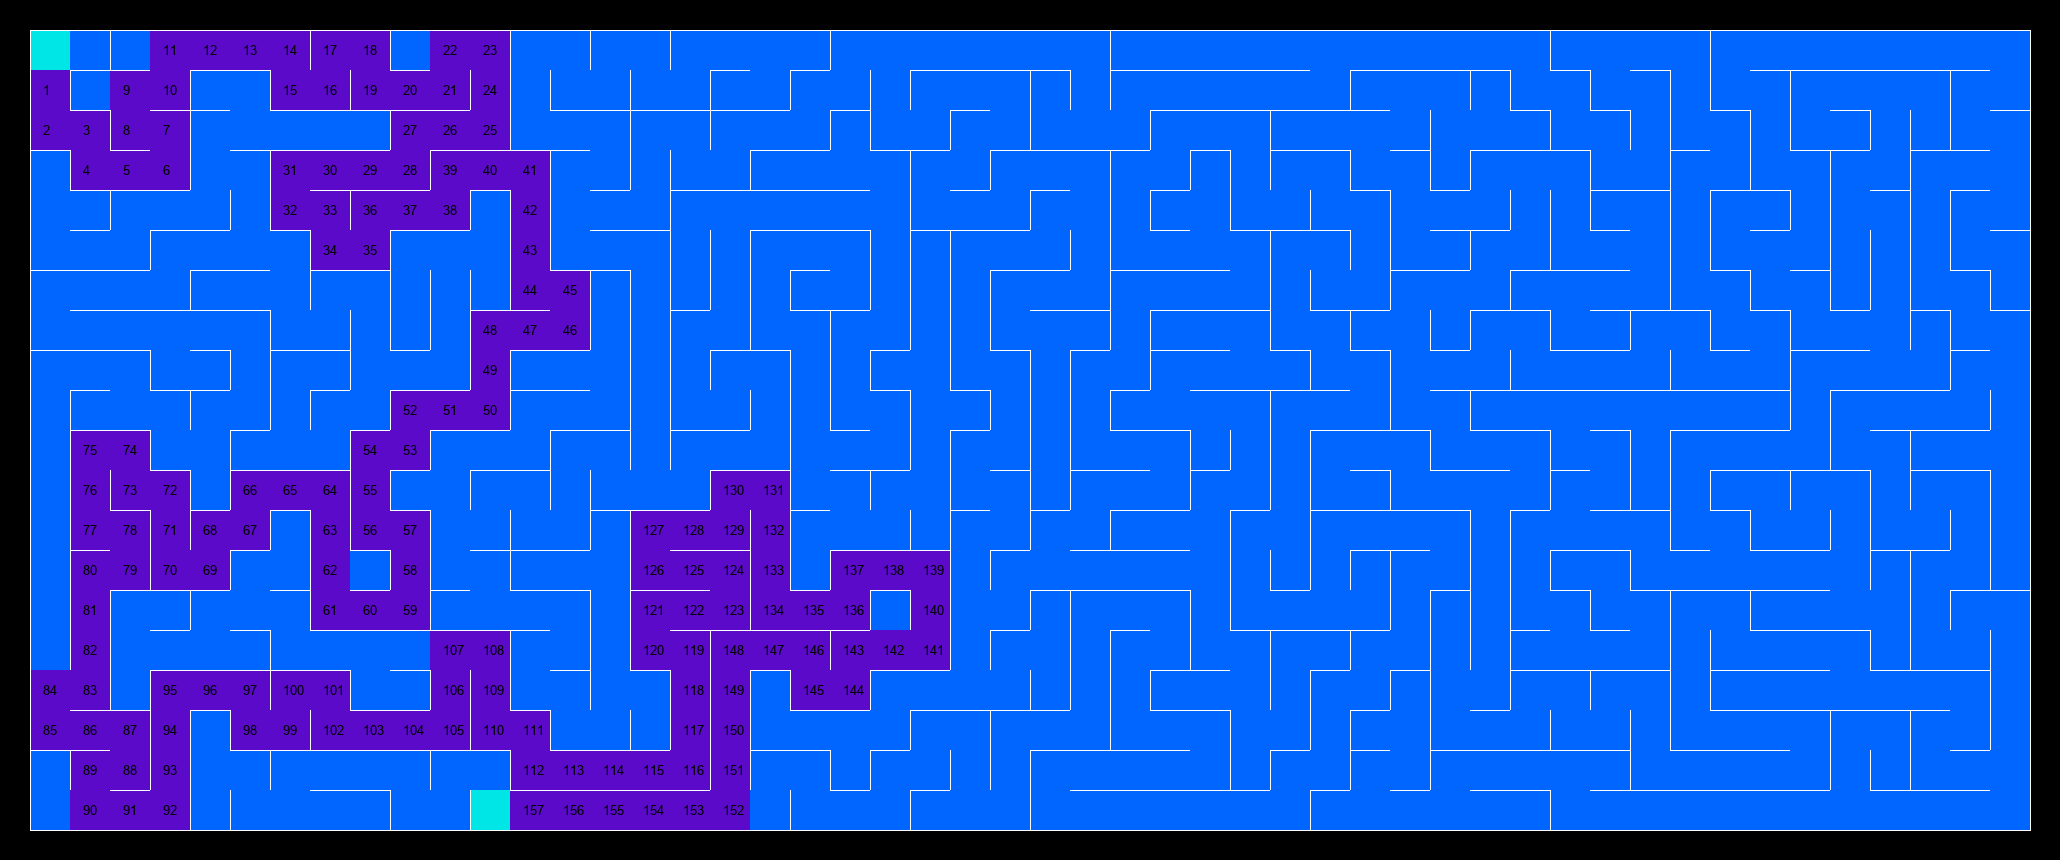
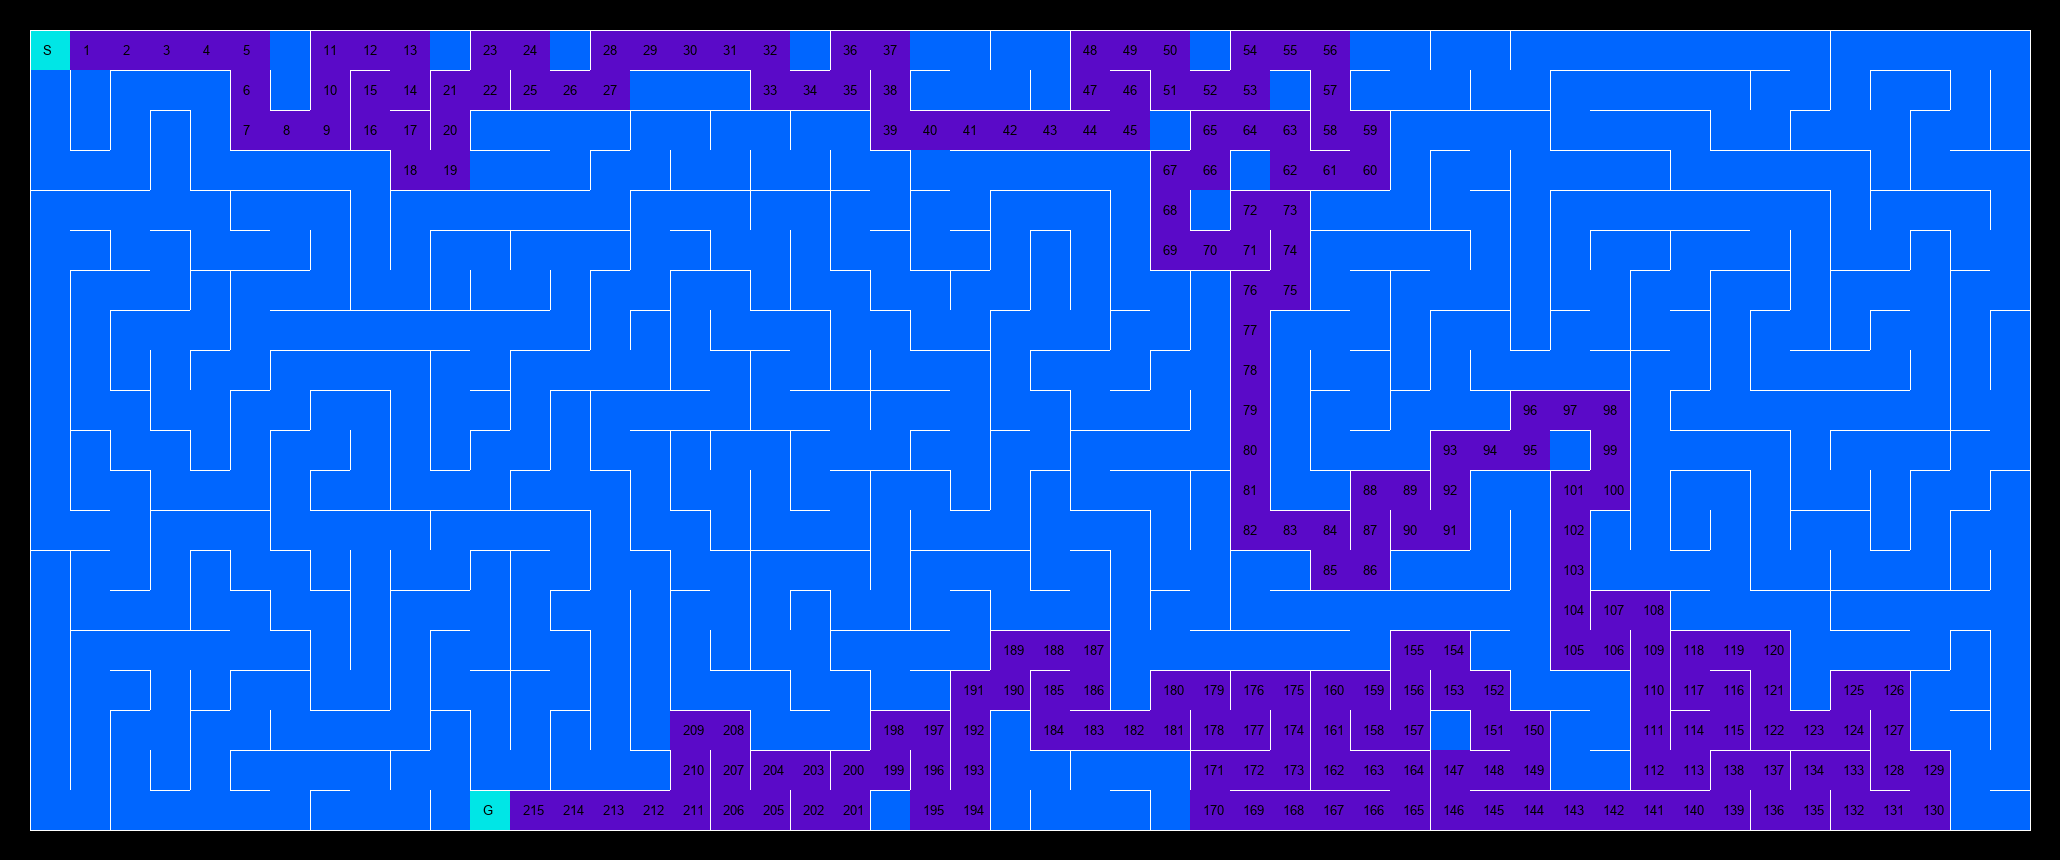
Wow, linters can help a lot

diff --git a/src/maze.py b/src/maze.py
@@ -1,23 +1,28 @@
 import random
-from consts import *
 from cell import Cell
+from consts import (CELL_WIDTH, CELL_HEIGHT, W_TOP, W_RIGHT, W_BOTTOM, W_LEFT,
+                    CELL_VISITED, CELL_START, CELL_GOAL, CELL_PATH)
 
 
 class Maze():
     def __init__(self, rows, cols, start):
         self.rows = rows
         self.cols = cols
-        self.cells = [Cell(CELL_WIDTH, CELL_HEIGHT, i,  (i - (i // rows) * rows), (i // rows)) for i in range(0, (rows * cols))]
+        self.cells = [Cell(CELL_WIDTH, CELL_HEIGHT, i,
+                      (i - (i // rows) * rows), (i // rows)) for i in range(0, (rows * cols))]
+
         self.stack = [self.cells[start]]
         self.finished_maze = []
         self.start = start
 
 # ------------- DISPLAY METHODS
     def display_cells(self):
-        for cell in self.cells:
-            print("id: " + str(cell.id) + " x: " + str(cell.x) + " y: " + str(cell.y) + " wall_value: " + str(bin(cell.walls)))
 
-# --------------TO_EDIT
+        for cell in self.cells:
+            walls = str(bin(cell.walls))
+            print("id: {} x: {} y: {} wall: {}".format(cell.id, cell.x, cell.y, walls))
+
+# --------------BINARY PREVIEW OF GENERATED MAZE - WITHOUT BFS!
     def display_maze(self):
 
         current = self.cells[0].id
@@ -27,8 +32,8 @@ class Maze():
 
             for x in range(self.rows):
                 cell = self.cells[current + x]
-                row[0] += '00' if (cell.walls & WALL_TOP) else '01'
-                row[1] += '01' if (cell.walls & WALL_LEFT) else '11'
+                row[0] += '00' if (cell.walls & W_TOP) else '01'
+                row[1] += '01' if (cell.walls & W_LEFT) else '11'
 
             current += self.rows
             [self.finished_maze.append((str + '0')) for str in row]
@@ -43,31 +48,31 @@ class Maze():
         neighbours = []
         x = current.x
         y = current.y
+        id = current.id
         # TOP
-        if (y > 0) and not (self.cells[current.id - self.rows].walls & CELL_VISITED):
-            neighbours.append(self.cells[current.id - self.rows])
+        if (y > 0) and not (self.cells[id - self.rows].walls & CELL_VISITED):
+            neighbours.append(self.cells[id - self.rows])
 
         # RIGHT
-        if (x < self.rows - 1) and not (self.cells[current.id + 1].walls & CELL_VISITED):
-            neighbours.append(self.cells[current.id + 1])
+        if (x < self.rows - 1) and not (self.cells[id + 1].walls & CELL_VISITED):
+            neighbours.append(self.cells[id + 1])
 
         # BOTTOM
-        if (y < (self.cols - 1)) and not (self.cells[current.id + self.rows].walls & CELL_VISITED):
-            neighbours.append(self.cells[current.id  + self.rows])
+        if (y < (self.cols - 1)) and not (self.cells[id + self.rows].walls & CELL_VISITED):
+            neighbours.append(self.cells[id + self.rows])
 
         # LEFT
-        if (x > 0) and not (self.cells[current.id - 1].walls & CELL_VISITED):
-            neighbours.append(self.cells[current.id - 1])
+        if (x > 0) and not (self.cells[id - 1].walls & CELL_VISITED):
+            neighbours.append(self.cells[id - 1])
 
         return neighbours
 
     def generate(self):
         while(len(self.stack) > 0):
             current = self.stack.pop()
-            
+
             # check for unvisited neighbours of the current cell
             neighbours = self.check_neighbours(current)
-
 
             if (len(neighbours) > 0):
                 # push the current cell on to the stack
@@ -80,86 +85,81 @@ class Maze():
 
                 # TOP
                 if (diff == -self.rows):
-                    self.cells[current.id].walls &= ~WALL_TOP
-                    self.cells[visit.id].walls &= ~WALL_BOTTOM
+                    self.cells[current.id].walls &= ~W_TOP
+                    self.cells[visit.id].walls &= ~W_BOTTOM
                 # RIGHT
                 elif (diff == 1):
-                    self.cells[current.id].walls &= ~WALL_RIGHT
-                    self.cells[visit.id].walls &= ~WALL_LEFT
+                    self.cells[current.id].walls &= ~W_RIGHT
+                    self.cells[visit.id].walls &= ~W_LEFT
                 # BOTTOM
                 elif (diff == self.rows):
-                    self.cells[current.id].walls &= ~WALL_BOTTOM
-                    self.cells[visit.id].walls &= ~WALL_TOP
+                    self.cells[current.id].walls &= ~W_BOTTOM
+                    self.cells[visit.id].walls &= ~W_TOP
                 # LEFT
                 elif (diff == -1):
-                    self.cells[current.id].walls &= ~WALL_LEFT
-                    self.cells[visit.id].walls &= ~WALL_RIGHT
+                    self.cells[current.id].walls &= ~W_LEFT
+                    self.cells[visit.id].walls &= ~W_RIGHT
                 else:
-                    print("OOPSIE!!")
+                    print("Something went wrong!!")
                     return
 
                 # mark the chosen cell as visited and push the cell on to the stack
-                self.cells[visit.id].walls |=CELL_VISITED
+                self.cells[visit.id].walls |= CELL_VISITED
                 self.stack.append(visit)
 
 # -----------------------HELPERS
-    def reset_visit_flag(self):
-        for i in range(0, len(self.cells)):
-            self.cells[i].walls &= ~CELL_VISITED
-
     def get_cells(self):
         return self.cells
 
-# --------------------BFS SHORTEST PATH SEARCH 
-    def randomize_endpoints(self):   # selects start and endpoint randomly
+# --------------------BFS SHORTEST PATH SEARCH
+    def randomize_endpoints(self):   # selects start and endpoint id randomly
         # start cell index
         s_c = self.start
 
         # goal cell index
-        g_c = random.randint(int((len(self.cells)/4) * 3), len(self.cells)-1)
+        g_c = random.randint(int((len(self.cells)/2)), len(self.cells)-1)
 
-        self.cells[s_c].walls |= CELL_IS_START
-        self.cells[g_c].walls |= CELL_IS_GOAL
+        self.cells[s_c].walls |= CELL_START
+        self.cells[g_c].walls |= CELL_GOAL
 
         return(s_c, g_c)
 
     def find_bfs_neighbours(self, current):
         x = current.x
         y = current.y
+        id = current.id
         neighbours = []
 
         # TOP
-        if ( y > 0 ) and not((self.cells[current.id - self.rows].walls & WALL_BOTTOM) or (current.walls & WALL_TOP)):
-            neighbours.append(self.cells[current.id  - self.rows ])
-            
+        if (y > 0) and not((self.cells[id - self.rows].walls & W_BOTTOM) or (current.walls & W_TOP)):
+            neighbours.append(self.cells[id - self.rows])
+
         # RIGHT
-        if (x < self.rows - 1) and not((self.cells[current.id + 1].walls & WALL_LEFT) or (current.walls & WALL_RIGHT)):
-            neighbours.append(self.cells[current.id + 1 ])
+        if (x < self.rows - 1) and not((self.cells[id + 1].walls & W_LEFT) or (current.walls & W_RIGHT)):
+            neighbours.append(self.cells[id + 1])
 
         # BOTTOM
-        if (y < (self.cols - 1)) and not((self.cells[current.id + self.rows].walls & WALL_TOP) or (current.walls & WALL_BOTTOM)):
-            neighbours.append(self.cells[current.id  + self.rows ])
+        if (y < (self.cols - 1)) and not((self.cells[current.id + self.rows].walls & W_TOP) or (current.walls & W_BOTTOM)):
+            neighbours.append(self.cells[id + self.rows])
 
         # LEFT
-        if (x > 0) and not((self.cells[current.id - 1].walls & WALL_RIGHT) or (current.walls & WALL_LEFT)):
-            neighbours.append(self.cells[current.id - 1])
+        if (x > 0) and not((self.cells[id - 1].walls & W_RIGHT) or (current.walls & W_LEFT)):
+            neighbours.append(self.cells[id - 1])
 
         return neighbours
 
-    def find_path(self):   # TO EDIT!
-        s_c, g_c = self.randomize_endpoints()
-        start = self.cells[s_c]
-        goal = self.cells[g_c]
+    def find_path(self):
+        start, goal = self.randomize_endpoints()
         queue = []
         searched = []
         backtrace = {}
 
-        queue = [start.id]
+        queue = [start]
 
         while(queue):
             current = queue.pop(0)   # FIFO
 
-            if(current == goal.id):
+            if(current == goal):
                 break
 
             neighbours = self.find_bfs_neighbours(self.cells[current])
@@ -168,23 +168,30 @@ class Maze():
                 check = neighbours[i].id
 
                 if (check not in searched):
+                    # remebering visited cells
                     searched.append(check)
+                    # how did we get to the next cell?
                     backtrace[check] = current
                     queue.append(check)
 
-            #print("Current: " + str(current))
-            #print("Neighbours: " + str([neighbour.id for neighbour in neighbours]))
-        if (current == goal.id):
-            path = [goal.id]
-            current = goal.id
+            # print("Current: " + str(current))
+            # print("Neighbours: " + str([neighbour.id for neighbour in neighbours]))
 
-            while(current != start.id):
+        if (current == goal):
+            path = [goal]
+            current = goal
+
+            while(current != start):
                 current = backtrace[current]
                 path.insert(0, current)
 
             for i in range(0, len(path)):
-                self.cells[path[i]].walls |= CELL_BFS_PATH
+                self.cells[path[i]].walls |= CELL_PATH
                 self.cells[path[i]].bfs_step_num = str(i)
+
+            self.cells[start].bfs_step_num = "S"
+            self.cells[goal].bfs_step_num = "G"
+
             return True
 
         else:

diff --git a/src/main.py b/src/main.py
@@ -1,11 +1,13 @@
-from consts import *
+from consts import (MAZE_WIDTH, MAZE_HEIGHT, CELL_SIZE, IMG_MARGIN, FONT_SIZE,
+                    CELL_GOAL, CELL_START, CELL_PATH, C_NORMAL, C_ENDPOINT,
+                    C_BLACK, C_VISITED_2, W_TOP, W_RIGHT, W_BOTTOM, W_LEFT)
 from maze import Maze
 from PIL import Image, ImageDraw, ImageFont
 
 
-def draw_image(cells , rows, cols):
-    size_x = rows * CELL_BOX_SIZE + IMG_MARGIN * 2  # ROWS  - DRAWING FROM LEFT TO RIGHT
-    size_y = cols * CELL_BOX_SIZE + IMG_MARGIN * 2  # COLS - DRAWING FROM UP TO DOWN
+def draw_image(cells, rows, cols):
+    size_x = rows * CELL_SIZE + IMG_MARGIN * 2  # ROWS - DRAWING FROM LEFT TO RIGHT
+    size_y = cols * CELL_SIZE + IMG_MARGIN * 2  # COLS - DRAWING FROM UP TO DOWN
     img = Image.new('RGB', (size_x, size_y))
     draw = ImageDraw.Draw(img)
     txt_font = ImageFont.truetype("arial.ttf", FONT_SIZE)
@@ -17,35 +19,36 @@ def draw_image(cells , rows, cols):
     for posy in range(0, cols):
         for posx in range(0, rows):
             cell = cells[curr_pos + posx]
-            x_txt = x + int(CELL_BOX_SIZE/3)
-            y_txt = y + int(CELL_BOX_SIZE/3)
+            x_txt = x + int(CELL_SIZE/3)
+            y_txt = y + int(CELL_SIZE/3)
 
-            if(cell.walls & CELL_IS_START) | (cell.walls & CELL_IS_GOAL):
-                draw.rectangle([(x, y), (x + CELL_BOX_SIZE, y + CELL_BOX_SIZE)], fill=C_ENDPOINT)
+            if(cell.walls & CELL_START) | (cell.walls & CELL_GOAL):
+                draw.rectangle([(x, y), (x + CELL_SIZE, y + CELL_SIZE)], fill=C_ENDPOINT)
+                draw.text((x_txt, y_txt), str(cell.bfs_step_num), fill=C_BLACK, font=txt_font)
 
-            elif (cell.walls & CELL_BFS_PATH):
-                draw.rectangle([(x, y), (x + CELL_BOX_SIZE, y + CELL_BOX_SIZE)], fill=C_VISITED_2)
+            elif (cell.walls & CELL_PATH):
+                draw.rectangle([(x, y), (x + CELL_SIZE, y + CELL_SIZE)], fill=C_VISITED_2)
 
                 draw.text((x_txt, y_txt), str(cell.bfs_step_num), fill=C_BLACK, font=txt_font)
             else:
-                draw.rectangle([(x, y), (x + CELL_BOX_SIZE, y + CELL_BOX_SIZE)], fill=C_NORMAL)
+                draw.rectangle([(x, y), (x + CELL_SIZE, y + CELL_SIZE)], fill=C_NORMAL)
 
-            if (cell.walls & WALL_TOP):
-                draw.line([(x, y), (x + CELL_BOX_SIZE, y)])
+            if (cell.walls & W_TOP):
+                draw.line([(x, y), (x + CELL_SIZE, y)])
 
-            if (cell.walls & WALL_RIGHT):
-                draw.line([(x + CELL_BOX_SIZE , y), (x + CELL_BOX_SIZE, y + CELL_BOX_SIZE)])
+            if (cell.walls & W_RIGHT):
+                draw.line([(x + CELL_SIZE, y), (x + CELL_SIZE, y + CELL_SIZE)])
 
-            if (cell.walls & WALL_BOTTOM):
-                draw.line([(x, y + CELL_BOX_SIZE), (x + CELL_BOX_SIZE, y + CELL_BOX_SIZE)])
+            if (cell.walls & W_BOTTOM):
+                draw.line([(x, y + CELL_SIZE), (x + CELL_SIZE, y + CELL_SIZE)])
 
-            if (cell.walls & WALL_LEFT):
-                draw.line([(x, y), (x, y + CELL_BOX_SIZE)])
+            if (cell.walls & W_LEFT):
+                draw.line([(x, y), (x, y + CELL_SIZE)])
 
-            x += CELL_BOX_SIZE
+            x += CELL_SIZE
         curr_pos += rows
         x = IMG_MARGIN
-        y += CELL_BOX_SIZE
+        y += CELL_SIZE
 
     img.show()
     img.save("test.png")
@@ -53,7 +56,7 @@ def draw_image(cells , rows, cols):
 
 # -------------------------------------------------------
 
-test = Maze(MAZE_WIDTH_2, MAZE_HEIGHT_2, 0)
+test = Maze(MAZE_WIDTH, MAZE_HEIGHT, 0)
 test.generate()
 test.find_path()
 print("---------------------------------------------")
@@ -61,4 +64,6 @@ cells = test.get_cells()
 # test.display_cells()
 # test.display_maze()
 
-draw_image(cells, MAZE_WIDTH_2, MAZE_HEIGHT_2)
+draw_image(cells, MAZE_WIDTH, MAZE_HEIGHT)
+
+# EoF

diff --git a/src/consts.py b/src/consts.py
@@ -13,24 +13,26 @@ BORDER_THICKNESS = 2
 
 # ----------------------------------------------------------
 # [IS_GOAL IS_START BFS_PATH IS_VISITED LEFT BOTTOM RIGHT TOP]
-WALL_TOP = 0b00000001
-WALL_RIGHT = 0b00000010
-WALL_BOTTOM = 0b00000100
-WALL_LEFT = 0b00001000
+
+# WALLS
+W_TOP = 0b00000001
+W_RIGHT = 0b00000010
+W_BOTTOM = 0b00000100
+W_LEFT = 0b00001000
 
 CELL_NOT_VISITED = 0b00000000
 CELL_VISITED = 0b00010000
 
 
-CELL_BFS_PATH = 0b00100000
-CELL_IS_START = 0b01000000
-CELL_IS_GOAL = 0b10000000
+CELL_PATH = 0b00100000
+CELL_START = 0b01000000
+CELL_GOAL = 0b10000000
 
 # ------------ PIL CONSTS
 IMG_MARGIN = 30
-CELL_BOX_SIZE = 40
-MAZE_WIDTH_2 = 50
-MAZE_HEIGHT_2 = 20
-FONT_SIZE = CELL_BOX_SIZE // 3
+CELL_SIZE = 40
+MAZE_WIDTH = 50
+MAZE_HEIGHT = 20
+FONT_SIZE = CELL_SIZE // 3
 
 # EoF

diff --git a/src/cell.py b/src/cell.py
@@ -1,4 +1,4 @@
-from consts import *
+from consts import W_TOP, W_RIGHT, W_BOTTOM, W_LEFT, CELL_NOT_VISITED
 
 
 class Cell():
@@ -6,7 +6,7 @@ class Cell():
         self.width = width
         self.height = height
         self.id = id
-        self.walls = WALL_TOP | WALL_RIGHT | WALL_BOTTOM | WALL_LEFT | CELL_NOT_VISITED
+        self.walls = W_TOP | W_RIGHT | W_BOTTOM | W_LEFT | CELL_NOT_VISITED
 
     # x = id - (id // width) * width : y = 93 - (93 /10 ) * 10 = 3 X -> COL NUM
         self.x = x
